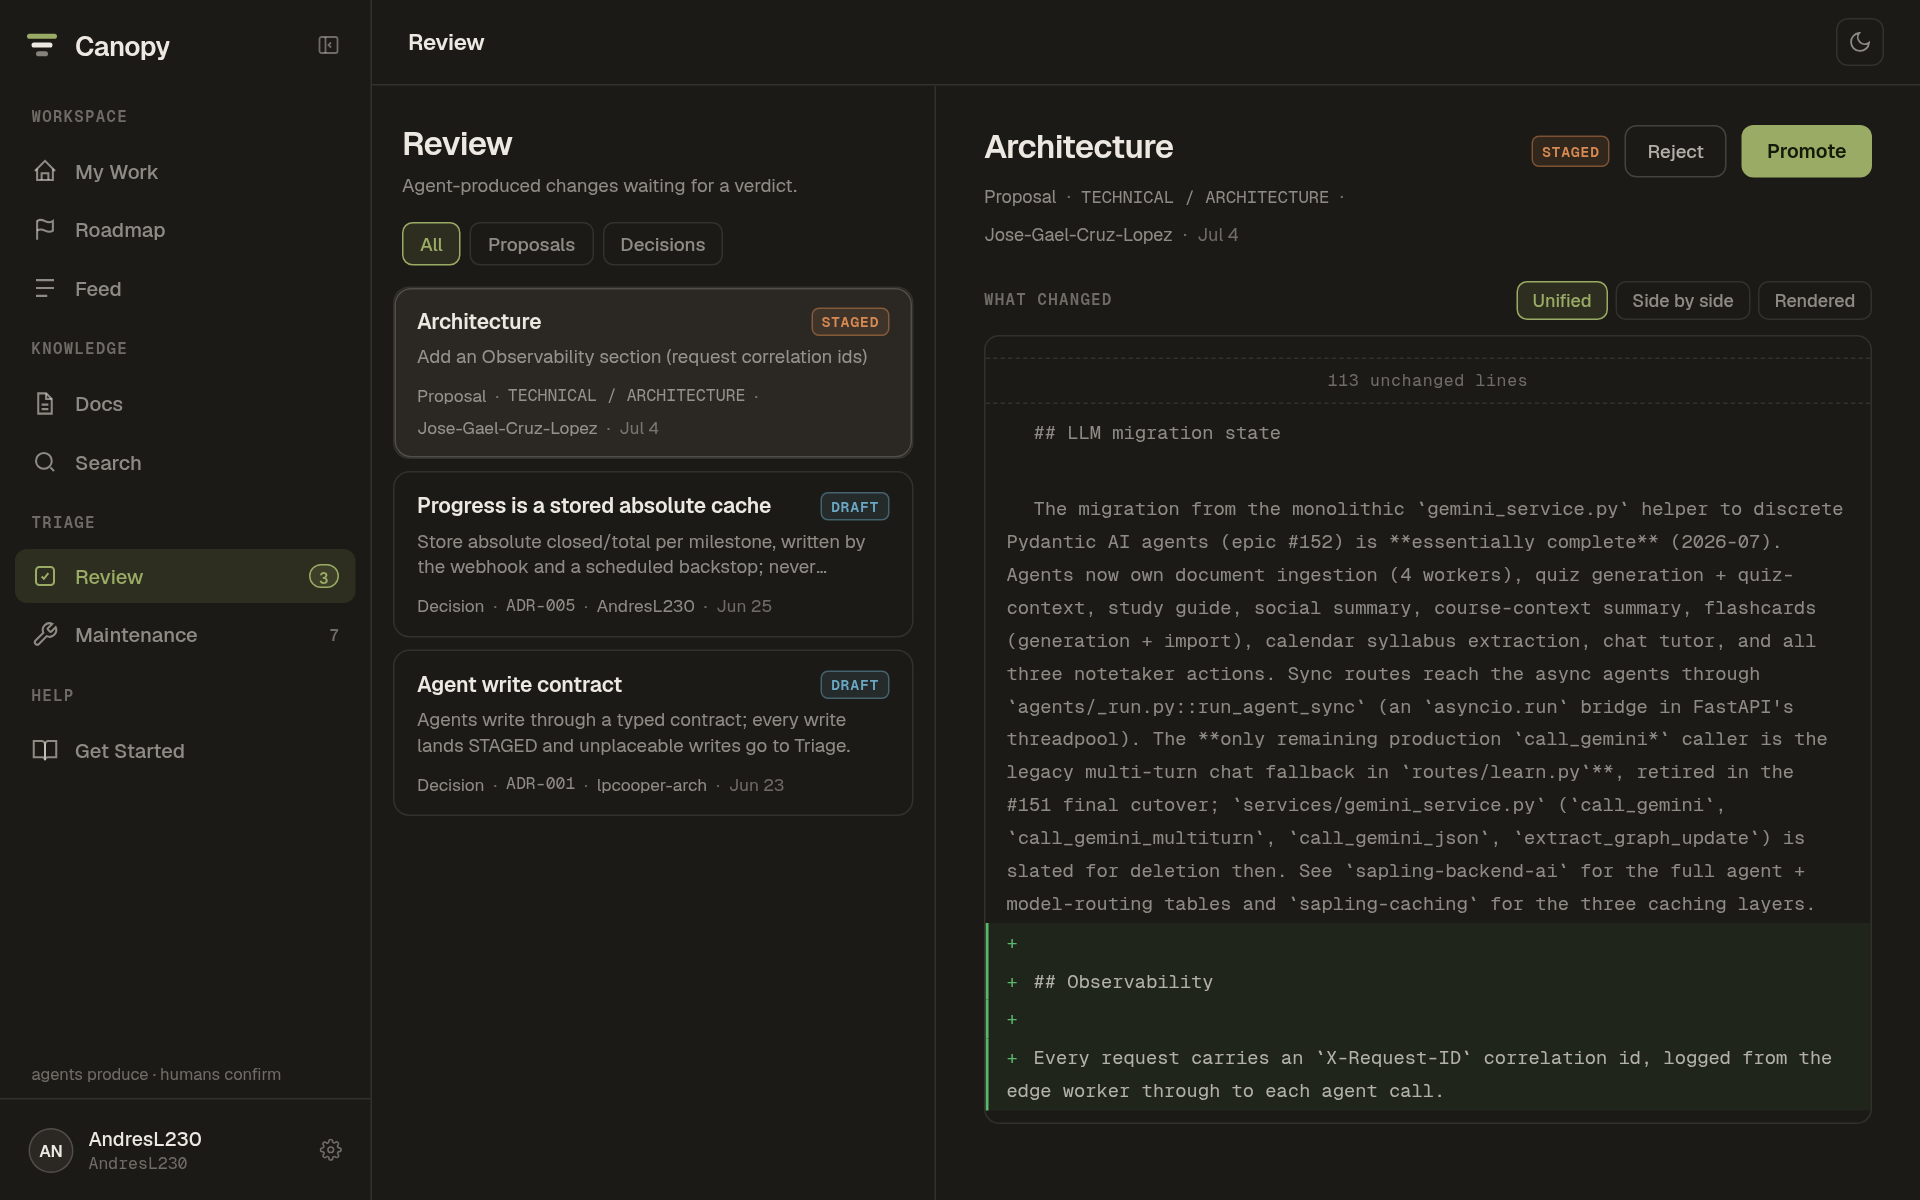
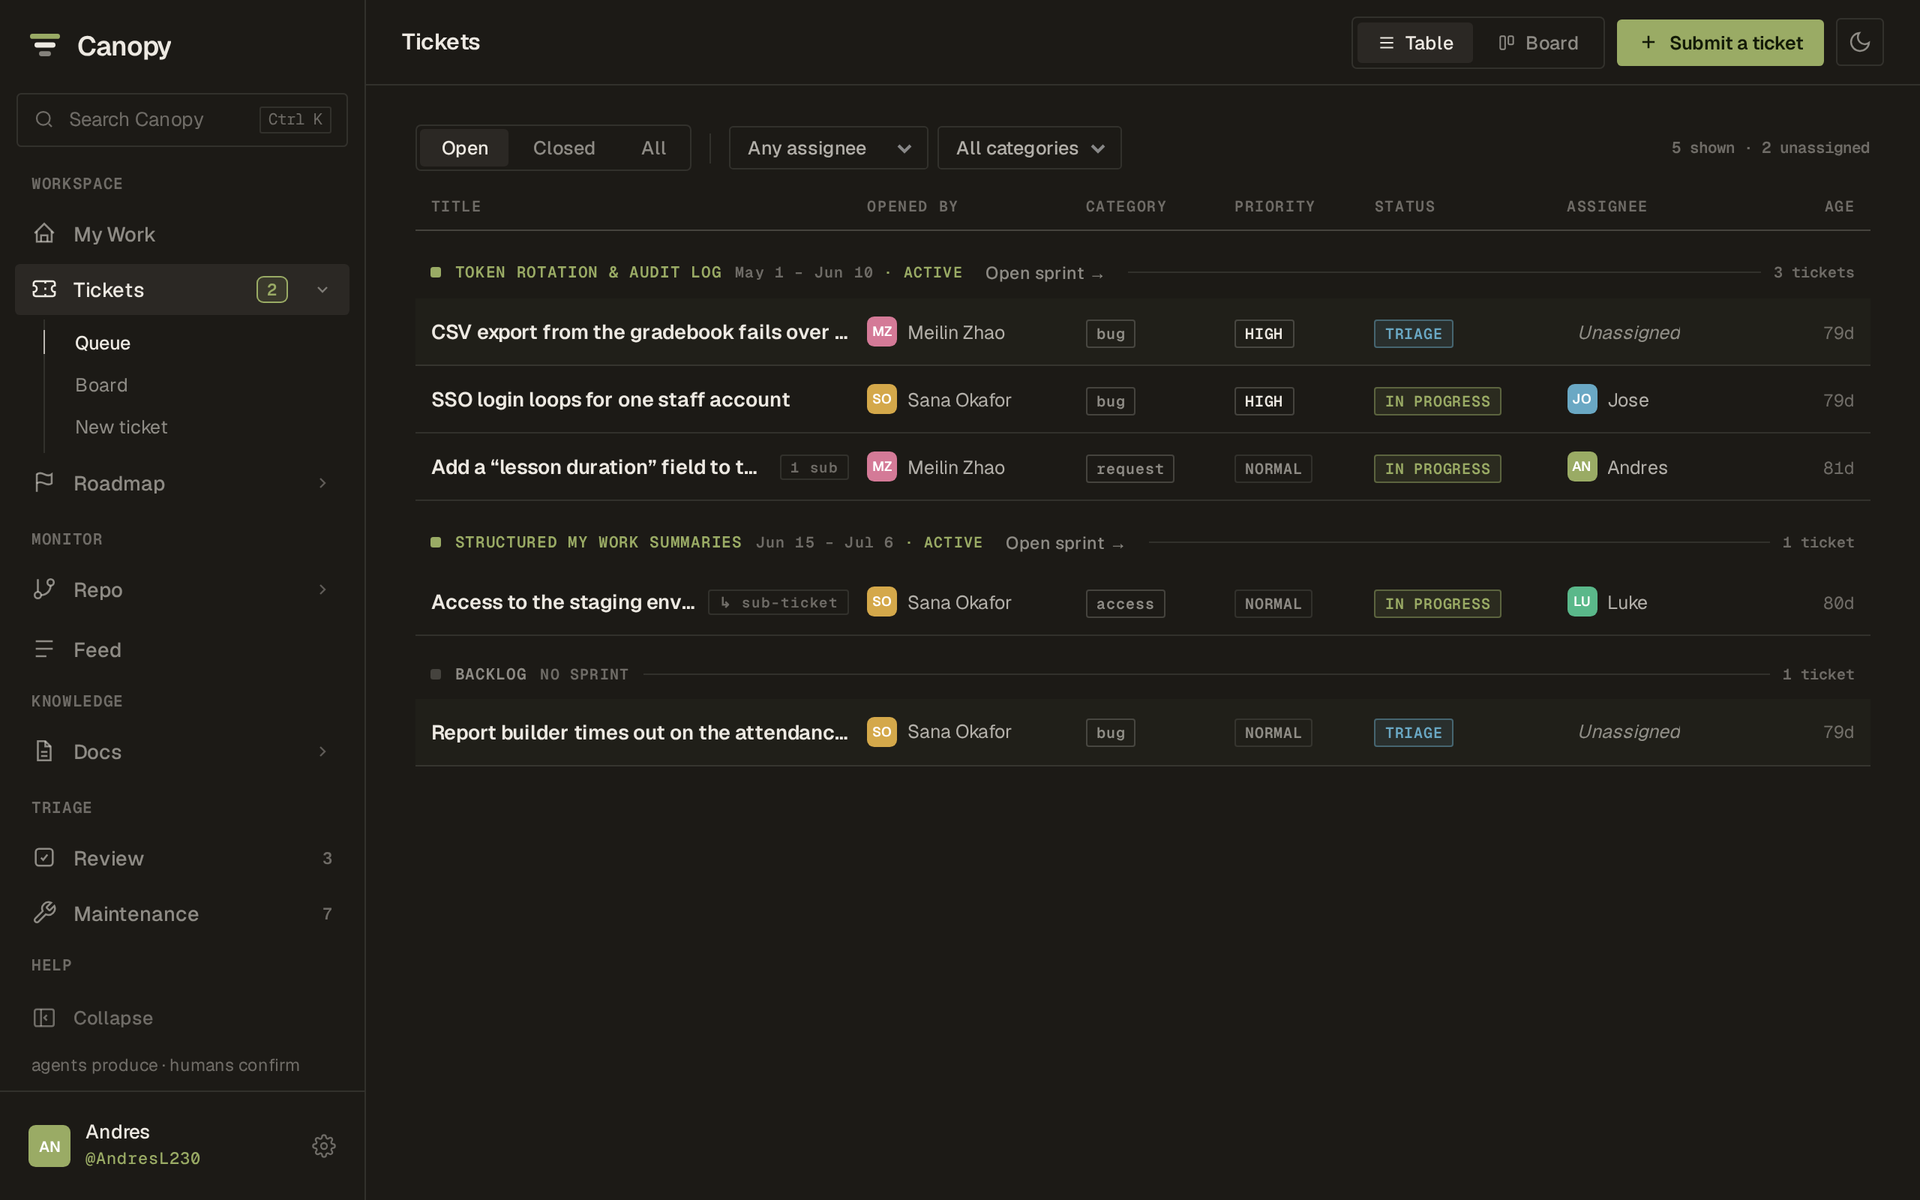
Refresh the Canopy case study: tickets, sprints, the repo dashboard, current numbers
The copy caught up with what Canopy is now: a ticket queue with sprints and
an agent lane rule, a roadmap whose progress is computed from tickets, and a
repo dashboard that never calls GitHub at render. Numbers are recounted from
the repo (479 of 496 commits, 26 MCP tools, 1,750 tests in 120 files, five
FTS5 tables, seven plugin skills).

Gallery reshot in the same forest-dark theme at 1920x1200: tickets as the
cover, then repo overview (sample data, captioned as such), a sprint, the
review diff, and search. Docs and feed shots retired.

diff --git a/src/data/projects.ts b/src/data/projects.ts
@@ -66,13 +66,14 @@ export const projects: Project[] = [
     year: '2026',
     award: null,
     tagline: 'Agents can write to the team memory. Only a human can publish it.',
-    desc: 'Shared context store for a team working with coding agents. One Cloudflare Worker serving an HTTP API, an MCP endpoint, and a SPA, with an idempotent gate between the agents and anything published.',
+    desc: 'The team’s working memory for building with coding agents: docs, decisions, a ticket queue, the roadmap, and a live picture of the repo. One Cloudflare Worker serves the HTTP API, an MCP endpoint, a GitHub webhook, and a SPA, with an idempotent gate between the agents and anything published.',
     img: '/images/canopy.png',
     cover: '/images/canopy.png',
     gallery: [
+      { src: '/images/canopy_repo.png', caption: 'Canopy · repo dashboard, both environments with deploys, CI on head, health, and drift (sample data)' },
+      { src: '/images/canopy_sprint.png', caption: 'Canopy · a sprint: its tickets, live progress, and every linked resource' },
+      { src: '/images/canopy_review.png', caption: 'Canopy · review queue, an agent’s staged doc edit as a diff waiting on a human' },
       { src: '/images/canopy_search.png', caption: 'Canopy · ranked FTS5 retrieval, every hit flagged live or staged' },
-      { src: '/images/canopy_docs.png', caption: 'Canopy · doc tree with a staged proposal awaiting review' },
-      { src: '/images/canopy_feed.png', caption: 'Canopy · session feed, each entry carrying its PR and commit artifacts' },
     ],
     tech: [
       'TypeScript',
@@ -81,22 +82,25 @@ export const projects: Project[] = [
       'Hono',
       'Model Context Protocol',
       'SQLite FTS5',
+      'GitHub webhooks',
+      'Cron Triggers',
       'Zod',
       'Vite',
       'Vitest',
     ],
     url: 'https://github.com/SaplingLearn/canopy',
-    role: 'solo · 283 of 284 commits',
+    role: 'solo · 479 of 496 commits',
     problem:
-      "A four-person team shipping with coding agents kept losing the same context. Decisions lived in closed PR threads, architecture notes drifted from the code, and every new agent session started from zero, re-deriving what had already been settled. Letting agents write to a shared store fixes the amnesia and creates a worse problem: nothing an LLM produces is trustworthy enough to publish unreviewed.",
+      "A four-person team shipping with coding agents kept losing the same context. Decisions lived in closed PR threads, architecture notes drifted from the code, and every new agent session started from zero, re-deriving what had already been settled. The work itself was scattered too: requests in DMs, the plan in a doc nobody opened, deploy state in three dashboards. Letting agents write to a shared store fixes the amnesia and creates a worse problem: nothing an LLM produces is trustworthy enough to publish unreviewed.",
     solution:
-      'Canopy is that shared store, running as one Cloudflare Worker. Agents read assembled context through an MCP endpoint and propose changes back through the same endpoint. Every proposed write lands staged; a human promotes, rejects, or routes it to triage from the web UI. Agents produce, humans confirm, enforced by the architecture rather than by convention.',
+      'Canopy is that shared store, grown into the place the team actually works. Agents read assembled context through an MCP endpoint and propose changes back through the same endpoint; every proposed write lands staged, and a human promotes, rejects, or routes it from the web UI. Around that core sit a ticket queue with sprints, an authored roadmap whose progress is computed from real tickets, a personal My Work view, a five-tab dashboard over the product repo, and email digests. Agents produce, humans confirm, enforced by the architecture rather than by convention.',
     deepDive: [
-      'One Worker, three surfaces off one origin: a Hono JSON API, a stateless MCP endpoint at /mcp built on the MCP TypeScript SDK, and the SPA served through the ASSETS binding. D1 is the only datastore — no KV, no Durable Objects, no external search service. ~15,500 hand-written lines across worker, SPA, tests, and SQL.',
-      'One write gate, 346 lines, that every agent write funnels through regardless of entry point. A replay ledger keyed on (session_id, item_index) drops a re-POSTed payload; SHA-256 content hashes drop no-op edits; an LCS line diff types the rest as edit or rewrite at a 0.5 changed-over-max threshold; low confidence on a new slug routes to a human triage queue instead of the doc tree.',
-      'Agents can only ever stage. Every confirm verb — promote, ratify, reject, assign, discard — is a session-cookie HTTP route and is deliberately never registered as an MCP tool. The 11 MCP tools are built per request against an authenticated principal, so the admin plan-write tool is absent from tools/list entirely for everyone else rather than failing at call time.',
-      'Retrieval is four FTS5 virtual tables with trigger-maintained indexes and bm25 weighted 5x toward titles, with query tokens sanitized and phrase-quoted so FTS5 operators cannot be injected. Every result carries an authority flag (live, staged_pending, unpromoted, draft) so an agent can tell settled context from an unreviewed proposal.',
-      'A 439-test suite across 54 files runs against a real Miniflare D1, proving replay-safety at three layers: the reconciler unit, the HTTP route, and the MCP tool. Ships as a Claude Code plugin — six skills plus auto-wired MCP config, installable from a marketplace manifest in the repo.',
+      'One Worker, four surfaces off one origin: a Hono JSON API, a stateless MCP endpoint at /mcp built on the MCP TypeScript SDK, an HMAC-verified GitHub webhook, and the SPA served through the ASSETS binding, plus a scheduled() handler for the crons. D1 is the only datastore, across 27 migrations. No KV, no Durable Objects, no external search service.',
+      'One write gate that every agent write funnels through regardless of entry point. A replay ledger keyed on (session_id, item_index) drops a re-POSTed payload; SHA-256 content hashes drop no-op edits; an LCS line diff types the rest as edit or rewrite at a 0.5 changed-over-max threshold; low confidence on a new slug routes to a human triage queue instead of the doc tree. Every confirm verb is a session-cookie route and is deliberately never an MCP tool.',
+      '26 MCP tools, built per request against the authenticated principal, so admin-only tools are absent from tools/list for everyone else rather than failing at call time. Agents can work tickets, but only inside their person’s lane: a write is allowed only if the caller is already an assignee, an unknown id is not_found before the check so it is never an existence oracle, and assignment itself has no MCP counterpart. Nothing ever infers a resolution: a merged PR never closes a ticket, and a sprint is only done when a person says so.',
+      'The repo dashboard never calls GitHub at render time. Webhook deliveries, a six-hourly reconcile, and a ten-minute cron capture everything into D1, with the cron spreading one heavy job per tick to stay under Cloudflare’s 50-subrequest cap. Every section is ok, empty, or not_connected, never a guessed zero: a week-over-week delta only appears once capture predates the window, and a metric point is validated before it is written, because points are first-write-wins forever.',
+      'Retrieval is five FTS5 virtual tables with trigger-maintained indexes and bm25 weighted 5x toward titles, with query tokens sanitized and phrase-quoted so FTS5 operators cannot be injected. Every result carries an authority flag (live, staged_pending, unpromoted, draft) so an agent can tell settled context from an unreviewed proposal.',
+      '1,750 tests across 120 files run against a real Miniflare D1, proving replay-safety at the reconciler, the HTTP route, and the MCP tool, and pinning the sidebar’s DOM shape so its animations survive rerenders. Ships as a Claude Code plugin: seven skills that run an orient → work → record loop, plus auto-wired MCP config, installable from a marketplace manifest in the repo.',
     ],
   },
   {
